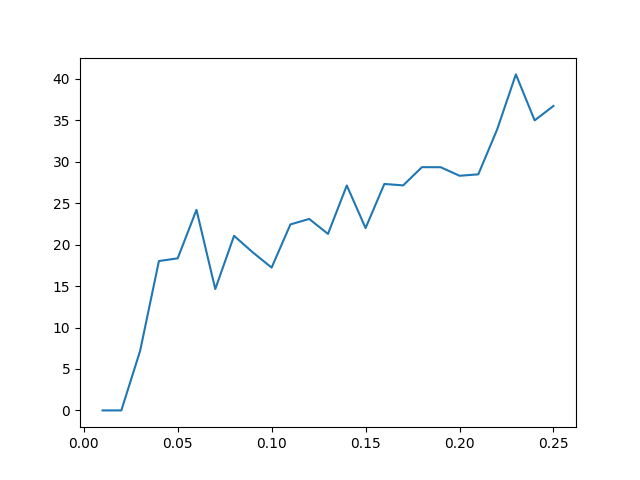
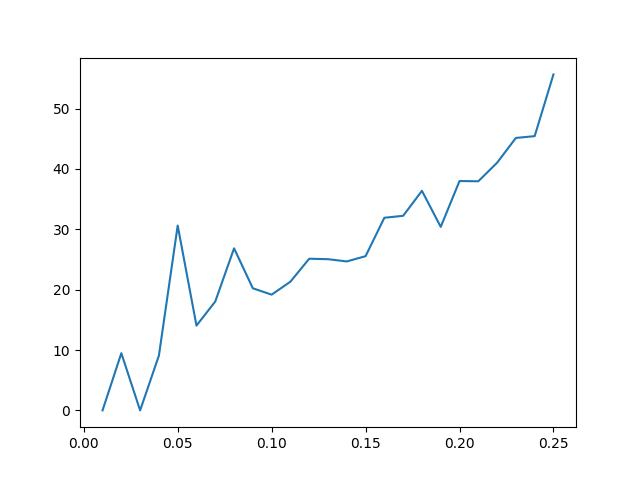
simulations are now on 3600 steps and not on a max number of cyclists

diff --git a/main.py b/main.py
@@ -23,6 +23,7 @@ if __name__ == "__main__":
     
 args = parse.parse_args()
 
+
 use_model = False
 save_model = use_model
 learning = True
@@ -33,12 +34,8 @@ lr=1e-5
 
 step_length = 0.2
 
-num_cyclists = 500
-max_num_cyclists_same_time = 50
 
-poisson_distrib = np.random.poisson(args.poisson_lambda, 100000)
-while(sum(poisson_distrib)<num_cyclists):
-    poisson_distrib = np.random.poisson(args.poisson_lambda, 100000)
+poisson_distrib = np.random.poisson(args.poisson_lambda, 3600)
 
 if(use_model):
     sub_folders = "w_model/"
@@ -84,10 +81,14 @@ edges = net.getEdges()
 if(args.new_scenario):
     print("WARNING : Creating a new scenario...")
     tab_scenario=[]
+    num_cyclists = sum(poisson_distrib)
 else:
     print("WARNING : Loading the scenario...")
     with open('scenario.tab', 'rb') as infile:
         tab_scenario = pickle.load(infile)
+    num_cyclists = len(tab_scenario)
+
+    
 
 
 dict_edges_index = {}
@@ -119,8 +120,7 @@ step = 0
 while(len(dict_cyclists) != 0 or id<num_cyclists):
     if(args.new_scenario):
         if(id<num_cyclists and poisson_distrib[int(step)] != 0):
-            if(len(dict_cyclists)<max_num_cyclists_same_time):
-                poisson_distrib[int(step)] = 0
+            for _ in range(poisson_distrib[int(step)]):
                 e1 = net.getEdge("E0")
                 e2 = net.getEdge("E3")#+str(randint(4, 9)))
                 path = net.getShortestPath(e1, e2, vClass='bicycle')[0]
@@ -128,6 +128,7 @@ while(len(dict_cyclists) != 0 or id<num_cyclists):
                 tab_scenario.append({"start_step": step, "start_edge": e1, "end_edge": e2, "max_speed": max_speed, "finish_step": -1})
                 spawn_cyclist(id, step, path, net, structure, step_length, max_speed)
                 id+=1
+            poisson_distrib[int(step)] = 0
 
     elif(id<len(tab_scenario) and step >= tab_scenario[id]["start_step"]):
             e1=tab_scenario[id]["start_edge"]
@@ -225,14 +226,14 @@ if(not args.new_scenario):
             
             if(not os.path.exists("files/"+sub_folders)):
                 os.makedirs("files/"+sub_folders)
-                tab_num_cycl = [[], []]
+                tab_perc_cycl = [[], []]
                 tab_time_diff = []
                 tab_x_values = []
                 if(use_model):
                     tab_mean_loss = []
             else:
-                with open('files/'+sub_folders+'num_cycl.tab', 'rb') as infile:
-                    tab_num_cycl = pickle.load(infile)
+                with open('files/'+sub_folders+'perc_cycl.tab', 'rb') as infile:
+                    tab_perc_cycl = pickle.load(infile)
                 with open('files/'+sub_folders+'time_diff.tab', 'rb') as infile:
                     tab_time_diff = pickle.load(infile)
                 with open('files/'+sub_folders+'x_values.tab', 'rb') as infile:
@@ -242,25 +243,25 @@ if(not args.new_scenario):
                         tab_mean_loss = pickle.load(infile)
 
 
-            tab_num_cycl[0].append(structure.num_cyclists_crossed)
-            tab_num_cycl[1].append(structure.num_cyclists_canceled)
+            tab_perc_cycl[0].append(structure.num_cyclists_crossed/num_cyclists*100)
+            tab_perc_cycl[1].append(structure.num_cyclists_canceled/num_cyclists*100)
             tab_time_diff.append(mean_diff_finish_step)
             tab_x_values.append(args.poisson_lambda)
 
-            print(tab_num_cycl[0], tab_num_cycl[1], tab_time_diff)
+            print(tab_perc_cycl[0], tab_perc_cycl[1], tab_time_diff)
 
             plt.clf()
             plt.plot(tab_x_values, tab_time_diff)
             plt.savefig("images/"+sub_folders+"evolution_time_diff.png")
 
             plt.clf()
-            plt.plot(tab_x_values, tab_num_cycl[0], label="num crossed")
-            plt.plot(tab_x_values, tab_num_cycl[1], label="num canceled")
+            plt.plot(tab_x_values, tab_perc_cycl[0], label="num crossed")
+            plt.plot(tab_x_values, tab_perc_cycl[1], label="num canceled")
             plt.legend()
-            plt.savefig("images/"+sub_folders+"evolution_num_cycl_using_struct.png")
+            plt.savefig("images/"+sub_folders+"evolution_percentage_cycl_using_struct.png")
 
-            with open('files/'+sub_folders+'num_cycl.tab', 'wb') as outfile:
-                pickle.dump(tab_num_cycl, outfile)
+            with open('files/'+sub_folders+'perc_cycl.tab', 'wb') as outfile:
+                pickle.dump(tab_perc_cycl, outfile)
             with open('files/'+sub_folders+'time_diff.tab', 'wb') as outfile:
                 pickle.dump(tab_time_diff, outfile)
             with open('files/'+sub_folders+'x_values.tab', 'wb') as outfile:
